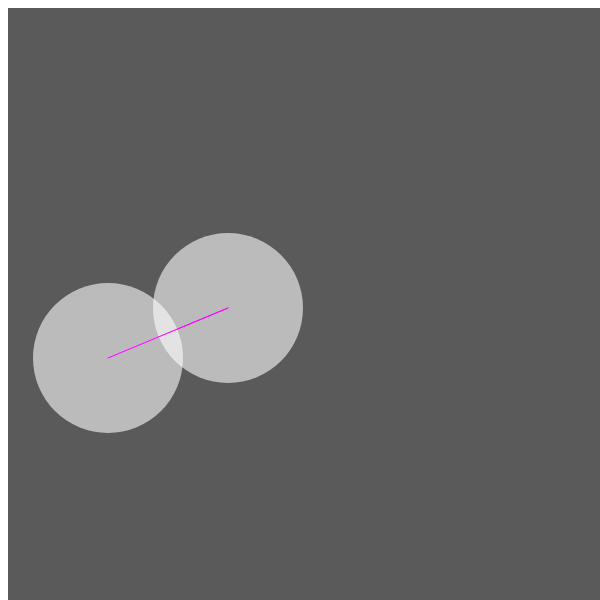
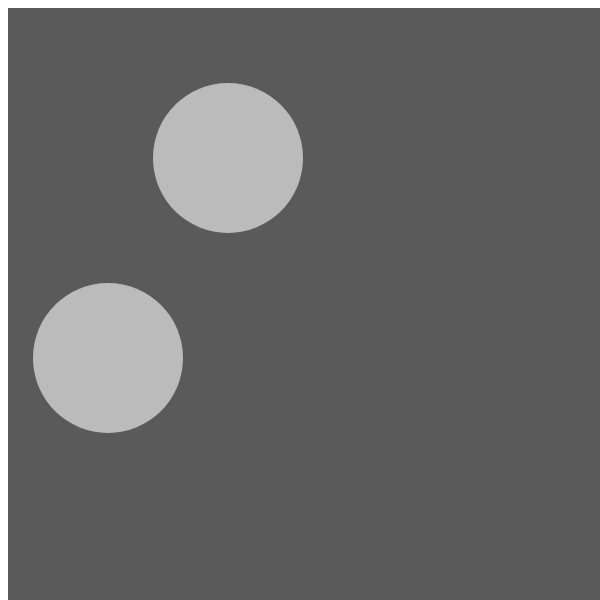
modified output img

Changed region(s): [[0.24, 0.12, 0.51, 0.66], [0.18, 0.57, 0.24, 0.6]]

diff --git a/example/README.md b/example/README.md
@@ -97,7 +97,8 @@ Your selection should be as follows:
 In the input field, enter: 
 
 ```
-{ "action" : "registerDNN", "params": { "name": "Expample", "creator": "erick", "description": " Circle drawings", "source_code" : "function DNN(){this.drawings=[];this.fractions=new Map;this.getDrawings=function(){return this.drawings};this.getFractions=function(){return this.fractions}}const dnn=new DNN;const circles=[];function setup(){createCanvas(600,600);circles[0]=new Circle(220,300,75);circles[1]=new Circle(100,350,75);dnn.drawings=circles}function draw(){background(90);for(let i=0;i<circles.length;i++){circles[i].display();for(let j=0;j<circles.length;j++){if(i!=j&&circles[i].intersects(circles[j])){stroke(255,0,255);line(circles[i].x,circles[i].y,circles[j].x,circles[j].y)}}}}function Circle(inX,inY,inR){this.x=inX;this.y=inY;this.r=inR;this.col=color(255,150);this.intersects=function(other){return dist(this.x,this.y,other.x,other.y)<this.r+other.r};this.display=function(){noStroke(0);fill(this.col);ellipse(this.x,this.y,this.r*2,this.r*2)}}" } }
+{ "action" : "registerDNN", "params": { "name": "Expample1", "creator": "erick", "description": " Circle drawings", "source_code" : "class DNN{constructor(){this.drawings=[];this.fractions=new Map}getDrawings(){return this.drawings}getFractions(){return this.fractions}}class Circle{constructor(inX,inY){this.x=inX;this.y=inY;this.r=75;this.col=color(255,150)}intersects(other){return dist(this.x,this.y,other.x,other.y)<this.r+other.r}display(){noStroke();fill(this.col);ellipse(this.x,this.y,this.r*2,this.r*2)}}const dnn=new DNN;const circles=[];function setup(){createCanvas(600,600);circles.push(new Circle(220,150));circles.push(new Circle(100,350));dnn.drawings=circles}function draw(){background(90);for(let i=0;i<circles.length;i++){circles[i].display();for(let j=i+1;j<circles.length;j++){if(circles[i].intersects(circles[j])){stroke(255,0,255);line(circles[i].x,circles[i].y,circles[j].x,circles[j].y)}}}}" } }
+
 ```
 
 You can check the output on the terminal running `index.js`.
